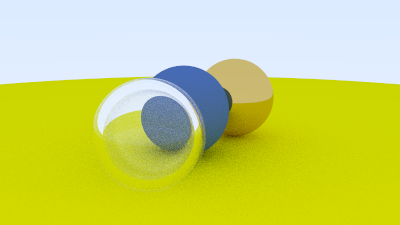
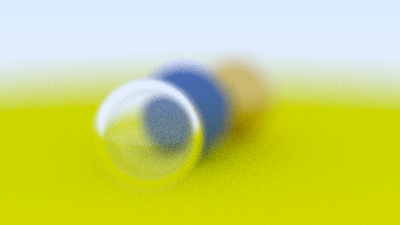
ch11_defocus_blur_cuda

Changed region(s): [[0.0, 0.2178, 1.0, 0.8711], [0.3, 0.7467, 0.33, 0.7778]]

diff --git a/camera.h b/camera.h
@@ -12,15 +12,22 @@ public:
     int samples_per_pixel = 10; // Count of random samples for each pixel
     int max_depth = 10; // Maximum number of ray bounces into scene
 
+    // 镜头设置参数
     float vfov = 90.0f; // Vertical view angle (field of view) 垂直可视角度
     point3 lookfrom = point3(0, 0, 0); // Point camera is looking from
     point3 lookat = point3(0, 0, -1); // Point camera is looking at
     vec3 vup = vec3(0, 1, 0); // Camera-relative "up" direction
 
+    // 景深效果参数
+    float defocus_angle = 0.0f; // Variant angle of rays through each pixel. 0 表示不启用景深效果
+    float focus_dist = 10.0f; // Distance from camera lookfrom point to plane of perfect focus
+
     __device__ camera(float aspect_ratio, int image_width, int samples_per_pixel,
-                      int max_depth, float vfov, point3 lookfrom, point3 lookat, vec3 vup): aspect_ratio(aspect_ratio),
-        image_width(image_width), samples_per_pixel(samples_per_pixel),
-        max_depth(max_depth), vfov(vfov), lookfrom(lookfrom), lookat(lookat), vup(vup) {
+                      int max_depth, float vfov, point3 lookfrom, point3 lookat, vec3 vup, float defocus_angle,
+                      float focus_dist): aspect_ratio(aspect_ratio),
+                                         image_width(image_width), samples_per_pixel(samples_per_pixel),
+                                         max_depth(max_depth), vfov(vfov), lookfrom(lookfrom), lookat(lookat),
+                                         vup(vup), defocus_angle(defocus_angle), focus_dist(focus_dist) {
         initialize();
     }
 
@@ -46,6 +53,14 @@ public:
 
     __device__ vec3 get_pixel_delta_v() const {
         return pixel_delta_v;
+    }
+
+    __device__ vec3 get_defocus_disk_u() const {
+        return defocus_disk_u;
+    }
+
+    __device__ vec3 get_defocus_disk_v() const {
+        return defocus_disk_v;
     }
 
     __device__ static color ray_color(const ray &r, int depth, hittable_list **d_world, curandState &rand_state) {
@@ -81,11 +96,11 @@ public:
 
     __device__ static vec3 sample_square(curandState &local_rand_state) {
         // Returns the vector to a random point in the [-0.5, -0.5]-[+0.5, +0,5] unit square.
-        return vec3(random_double(local_rand_state) - 0.5, random_double(local_rand_state) - 0.5, 0);
+        return vec3(random_float(local_rand_state) - 0.5, random_float(local_rand_state) - 0.5, 0);
     }
 
     __device__ static ray get_ray(int i, int j, camera **cam, curandState &local_rand_state) {
-        // Construct a camera ray originating from the origin and directed at randomly sampled
+        // Construct a camera ray originating from the defocus disk and directed at randomly sampled
         // point around the pixel, location i, j.
 
         auto offset = sample_square(local_rand_state);
@@ -93,9 +108,18 @@ public:
                             + ((i + offset.x()) * cam[0]->get_pixel_delta_u())
                             + ((j + offset.y()) * cam[0]->get_pixel_delta_v());
 
-        auto ray_origin = cam[0]->get_camera_center();
+        auto ray_origin = (cam[0]->defocus_angle <= 0)
+                              ? cam[0]->get_camera_center()
+                              : defocus_disk_sample(cam, local_rand_state);
         auto ray_direction = pixel_sample - ray_origin;
         return ray(ray_origin, ray_direction);
+    }
+
+    __device__ static point3 defocus_disk_sample(camera **cam, curandState &rand_state) {
+        // Returns a random point in the camera defocus disk.
+        auto p = random_in_unit_disk(rand_state);
+        return cam[0]->get_camera_center() + (p[0] * cam[0]->get_defocus_disk_u()) + (
+                   p[1] * cam[0]->get_defocus_disk_v());
     }
 
 private:
@@ -106,6 +130,8 @@ private:
     vec3 pixel_delta_u; // Offset to pixel to the right
     vec3 pixel_delta_v; // Offset to pixel below
     vec3 u, v, w; // Camera frame basis vectors
+    vec3 defocus_disk_u; // Defocus disk horizontal radius
+    vec3 defocus_disk_v; // Defocus disk vertical radius
 
     __device__ void initialize() {
         image_height = int(image_width / aspect_ratio);
@@ -116,10 +142,9 @@ private:
         camera_center = lookfrom;
 
         // Determine viewport dimensions.
-        float focal_length = (lookfrom - lookat).length();
         float theta = degrees_to_radians(vfov);
         float h = tanf(theta / 2.0f);
-        float viewport_height = 2.0f * h * focal_length; // 视窗高度，数值越大包含的画面范围越大
+        float viewport_height = 2.0f * h * focus_dist; // 视窗高度，数值越大包含的画面范围越大
         float viewport_width = viewport_height * (float(image_width) / image_height);
 
         // Calculate the u, v, w unit basis vectors for the camera coordinate frame.
@@ -136,8 +161,13 @@ private:
         pixel_delta_v = viewport_v / image_height;
 
         // Calculate the location of the upper left pixel.
-        auto viewport_upper_left = camera_center - (focal_length * w) - viewport_u / 2.0f - viewport_v / 2.0f;
+        auto viewport_upper_left = camera_center - (focus_dist * w) - viewport_u / 2.0f - viewport_v / 2.0f;
         pixel00_loc = viewport_upper_left + 0.5 * (pixel_delta_u + pixel_delta_v);
+
+        // Calculate the camera defocus disk basis vectors.
+        float defocus_radius = focus_dist * tanf(degrees_to_radians(defocus_angle / 2.0f));
+        defocus_disk_u = u * defocus_radius;
+        defocus_disk_v = v * defocus_radius;
     }
 };
 

diff --git a/vec3.h b/vec3.h
@@ -65,15 +65,15 @@ public:
     }
 
     __device__ static vec3 random(curandState &rand_state) {
-        return vec3(random_double(rand_state),
-                    random_double(rand_state),
-                    random_double(rand_state));
+        return vec3(random_float(rand_state),
+                    random_float(rand_state),
+                    random_float(rand_state));
     }
 
     __device__ static vec3 random(curandState &rand_state, float min, float max) {
-        return vec3(random_double(rand_state, min, max),
-                    random_double(rand_state, min, max),
-                    random_double(rand_state, min, max));
+        return vec3(random_float(rand_state, min, max),
+                    random_float(rand_state, min, max),
+                    random_float(rand_state, min, max));
     }
 };
 
@@ -128,10 +128,18 @@ __host__ __device__ inline vec3 unit_vector(const vec3 &v) {
     return v / v.length();
 }
 
+__device__ inline vec3 random_in_unit_disk(curandState &rand_state) {
+    while (true) {
+        auto p = vec3(random_float(rand_state, -1.0f, 1.0f), random_float(rand_state, -1.0f, 1.0f), 0);
+        if (p.length_squared() < 1.0f)
+            return p;
+    }
+}
+
 __device__ inline vec3 random_in_unit_sphere(curandState &rand_state) {
     while (true) {
-        auto p = vec3::random(rand_state, -1, 1);
-        if (p.length_squared() < 1)
+        auto p = vec3::random(rand_state, -1.0f, 1.0f);
+        if (p.length_squared() < 1.0f)
             return p;
     }
 }

diff --git a/rt_constants.h b/rt_constants.h
@@ -32,14 +32,14 @@ __device__ inline float degrees_to_radians(float degrees){
     return degrees * pi / 180.0f;
 }
 
-__device__ inline float random_double(curandState &rand_state) {
+__device__ inline float random_float(curandState &rand_state) {
     // Returns a random real in (0, 1].
     return curand_uniform(&rand_state);
 }
 
-__device__ inline float random_double(curandState &rand_state, float min, float max) {
+__device__ inline float random_float(curandState &rand_state, float min, float max) {
     // Returns a random real in (min, max].
-    return min + (max - min) * random_double(rand_state);
+    return min + (max - min) * random_float(rand_state);
 }
 
 // Common Headers

diff --git a/material.h b/material.h
@@ -79,7 +79,7 @@ public:
 
         bool cannot_refract = ri * sin_theta > 1.0; // 折射还是全反射
         vec3 direction;
-        if (cannot_refract || reflectance(cos_theta, ri) > random_double(rand_state))
+        if (cannot_refract || reflectance(cos_theta, ri) > random_float(rand_state))
             direction = reflect(unit_direction, rec.normal);
         else
             direction = refract(unit_direction, rec.normal, ri);
